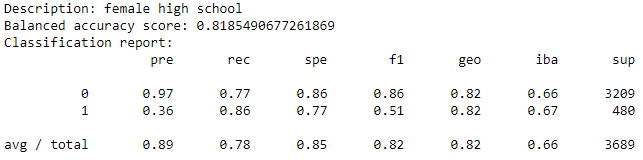
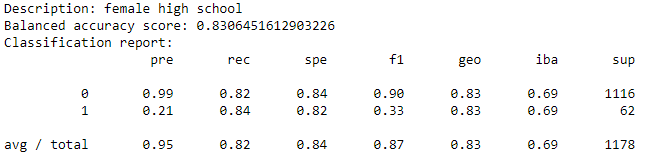
updated graphics and readme

diff --git a/README.md b/README.md
@@ -213,7 +213,73 @@ Recall: 75% of <$50k outcomes were found
 
 - It may be essential to consider that the cleaned census education dataset may skew the results. Additionally, adults who received education in their native countries outside of the U.S. may have different standards. Thus, people from different backgrounds make it difficult to have comparable measures.
 
+### **Exploration of feature combinations**
 
+By breaking up the dataset and using different combinations of features, we hoped to see different trends and patterns in our data. The key important features that were considered in this analysis were Education, Sex, and Marital Status. The emphasis was put on being able to predict whether or not an individual was making <$50k, so only the classification report for outcomes labeled "0" was analyzed.
+
+**Separation by Education**
+
+- High school grad or less
+
+![](/Resources/ml_results/high_school.png)
+
+- College grads
+
+![](/Resources/ml_results/college.png)
+
+While the accuracy of these models was the same, the < high school set had an almost perfect precision of 97% when looking at <$50k outcomes, at the cost of poor precision for >$50k outcomes. This pattern will be seen consistently, with a possible explanation being that most <$50k outcomes end up in the < high school demographic. 
+
+**Separation by Marital Status**
+
+- Married
+
+![](/Resources/ml_results/married.png)
+
+- Single
+
+![](/Resources/ml_results/single.png)
+
+This faces a similar situation to the education split, where the single dataset had great performance for prediction <$50 outcomes, but the married dataset had a ~70% rate for predicting all outcomes. Since "Single" was counted as "has never married" while "Married" was counted as "at one point was married", it is possible that young people overwhelmingly belong to the single group, and have great representation there.
+
+**Separation by Sex**
+
+- All males
+
+![](/Resources/ml_results/male_all_data.png)
+
+- All females
+
+![](/Resources/ml_results/female_all_data.png)
+
+- Male high school grad or less
+
+![](/Resources/ml_results/male_high_school.png)
+
+- Female high school grad or less
+
+![](/Resources/ml_results/female_high_school.png)
+
+- Male single
+
+![](/Resources/ml_results/male_single.png)
+
+- Female single
+
+![](/Resources/ml_results/female_single.png)
+
+A matter of note with the "single" classifications is that the sample sizes were starting to get relatively small, but useful information trends are still possible to retrieve from them. The most interesting matter of note is with the married female demographic. This subset had an unusually low accuracy, and we believe this to be attributed to the time this dataset was collected. Since this is from the 90's USA, the general social attitude was for young women to play a smaller role in the workforce compared to the more equal roles of today. Therefore, with the married female dataset, more members of the dataset could have less influence of their income compared to the members of the married male dataset, where more of the members were focused on making money.
+
+**Analysis of key demographic features**
+
+- Age, race, sex only
+
+![](/Resources/ml_results/age_race_sex.png)
+
+ - Age, race, sex, and education only
+
+ ![](/Resources/ml_results/age_race_sex_education.png)
+
+ With the models and analysis gained from working on this dataset, it may become necessary to compare it to other datasets, either from around the world or from a different time. Therefore, two subsets of the data were made that focus only on key demographic features. When looking at only the members' Age, Race, and Sex, we see a 70% accuracy for results. This is an incredible "at a glance" rate that allows us to compare this to most other datasets from other sources, since these features are almost certain to be included. Another analysis was done by also including Education into the aformentioned cluster, raising the accuracy up to nearly 75%.
 
 ## Presentation & Dashboard
 
